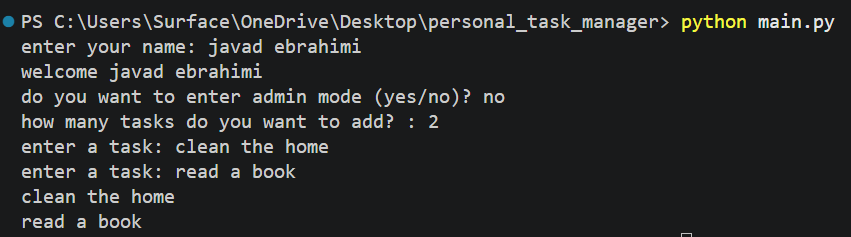
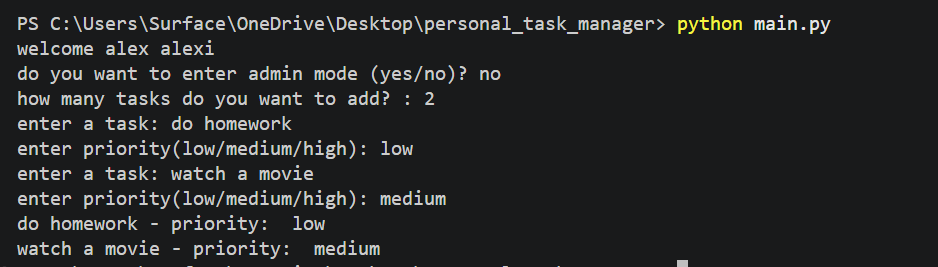
update readme for task priority

diff --git a/README.md b/README.md
@@ -1,13 +1,20 @@
 # Personal Task Manager
 ![Static Badge](https://img.shields.io/badge/python-blue?logo=python&logoColor=white)
 
-A simple task manager built with python
+A simple task manager built with Python
 
 ## Features
 - add multiple tasks
 - save tasks
 - load saved tasks
 - admin mode
+- set task priority
+
+## Task priority
+each task can have one of these priority levels:
+- low
+- medium
+- high
 
 ## Requirements
 - Python
@@ -35,7 +42,7 @@ Install the required packages:
 ```bash
 python -m pip install -r requirements.txt
 ```
-## Enviroment setup 
+## Enviroment Setup 
 create a `.env` file in the project folder
 
 Use `.env.example` as a template 
@@ -47,7 +54,7 @@ admin_pass=your_password_here
 ```
 replace `your_password_here` with your own admin password
 
-## run the program
+## Run the Program
 run the main file:
 ```bash
 python main.py
